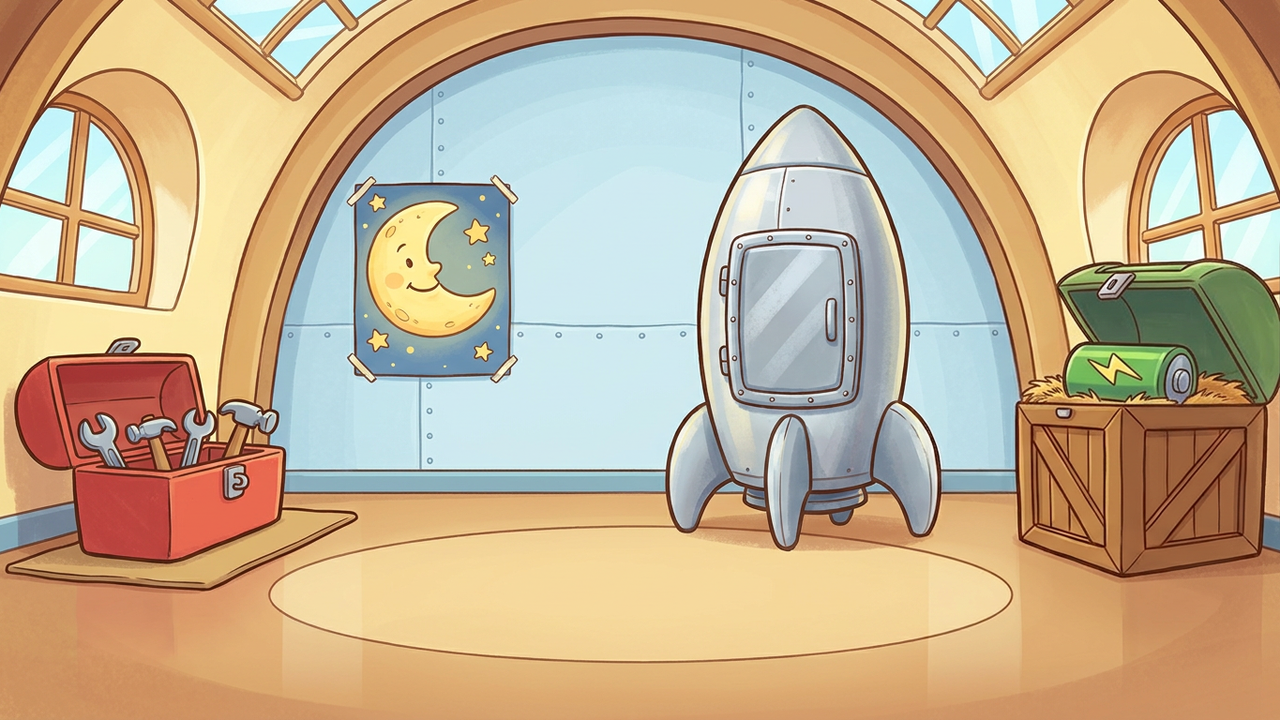
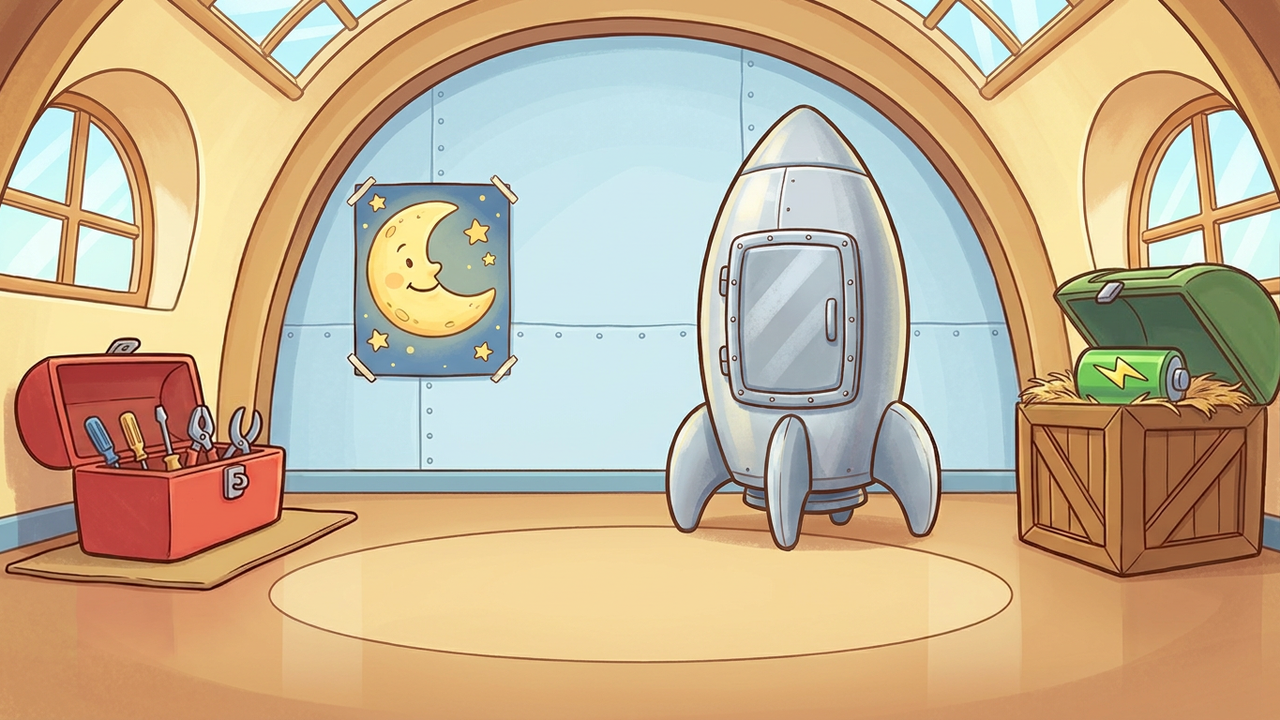
fix(escape): rocketpad toolbox takenScene shows wrench removed
The toolbox takenScene was a byte-copy of the base scene, leaving the
wrench visibly drawn in the toolbox after the kid collected it (item in
two places). Generate a real wrench-gone scene via NBP inpainting and
regenerate the full downstream chain (crate reveal/taken, panel/slot
after) from the corrected chain state so the toolbox area stays
consistent across all rocketpad scenes.

Changed region(s): [[0.7812, 0.3361, 1.0, 0.5806], [0.0625, 0.55, 0.2188, 0.6722]]

diff --git a/tools/gen_escape_grammar.py b/tools/gen_escape_grammar.py
@@ -54,7 +54,7 @@ GRAMMAR_PROMPTS: dict[str, dict[str, dict[str, str]]] = {
     "rocketpad": {
         "toolbox": {
             "reveal": None,  # toolbox already open in base scene; use base as reveal
-            "taken": None,   # toolbox stays open; visual feedback via glow + fly animation
+            "taken": "the red open toolbox with a few small tools inside — the large wrench is gone, only small screwdrivers and pliers remain",
         },
         "crate": {
             "reveal": "the brown wooden supply crate with its green lid popped wide open, a chunky green battery with a bright yellow lightning bolt sitting inside on top of packing straw",
